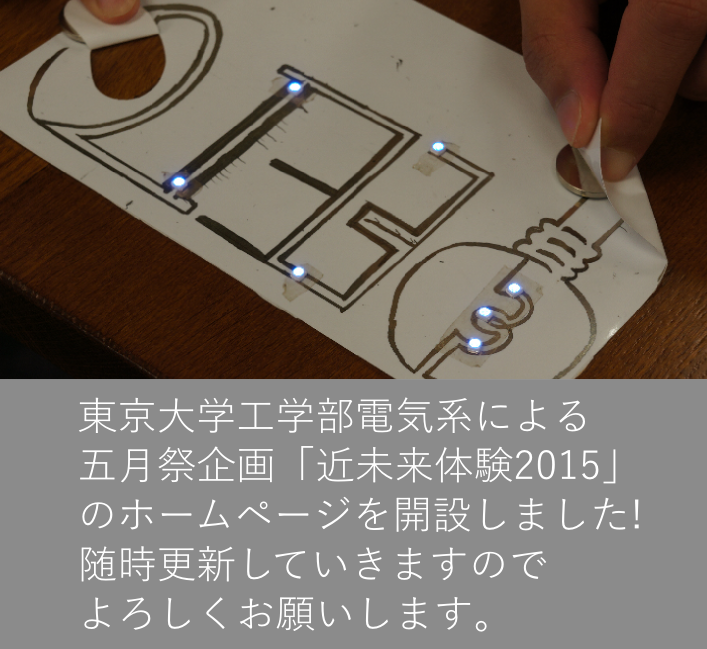
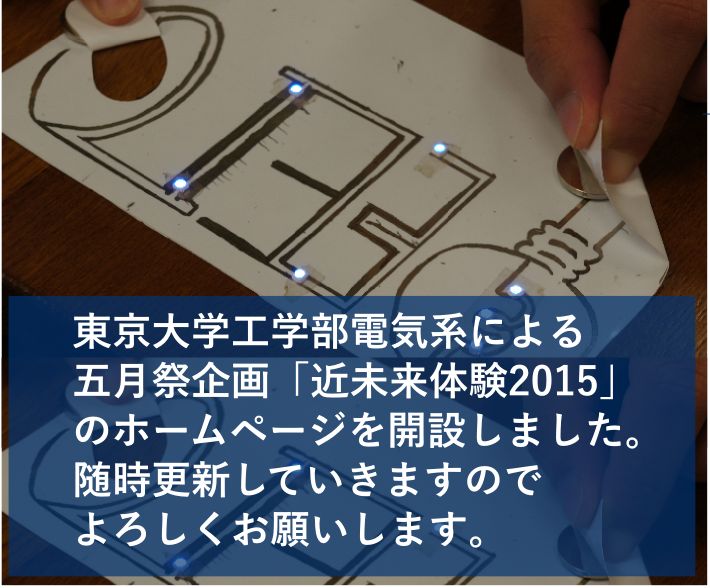
changet top photo

diff --git a/index.html b/index.html
@@ -71,7 +71,7 @@
                         <a href="http://gogatsusai.jp/88/visitor/" target="_blank"><p>五月祭公式サイト</p></a>
                     </div>
                 </div>
-                <div id="top-content" class="col-xs-12 hidden-sm hidden-md hidden-lg border-box" style="margin-top: 25px">
+                <div id="top-content" class="col-xs-12 hidden-sm hidden-md hidden-lg" style="margin-top: 25px">
                     <img src="./images/test_mod_mob.png" alt="test">
                 </div>
                 <div class="col-xs-12 hidden-sm hidden-md hidden-lg vice-top border-box">
